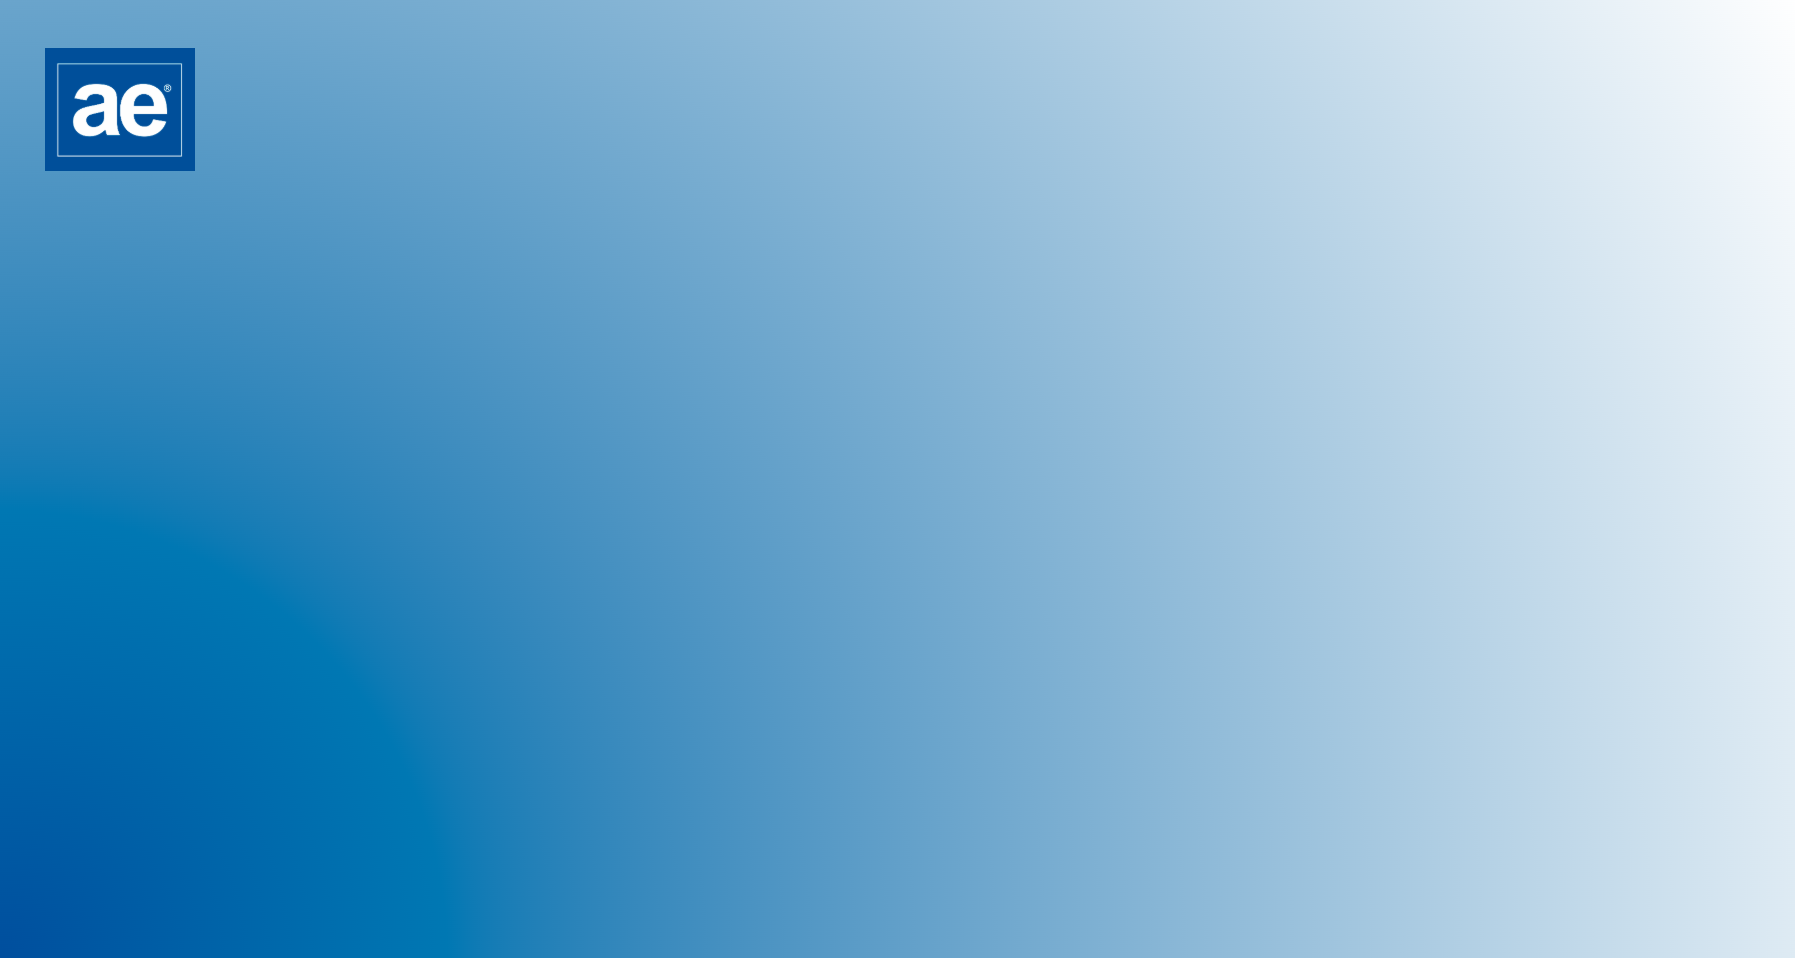
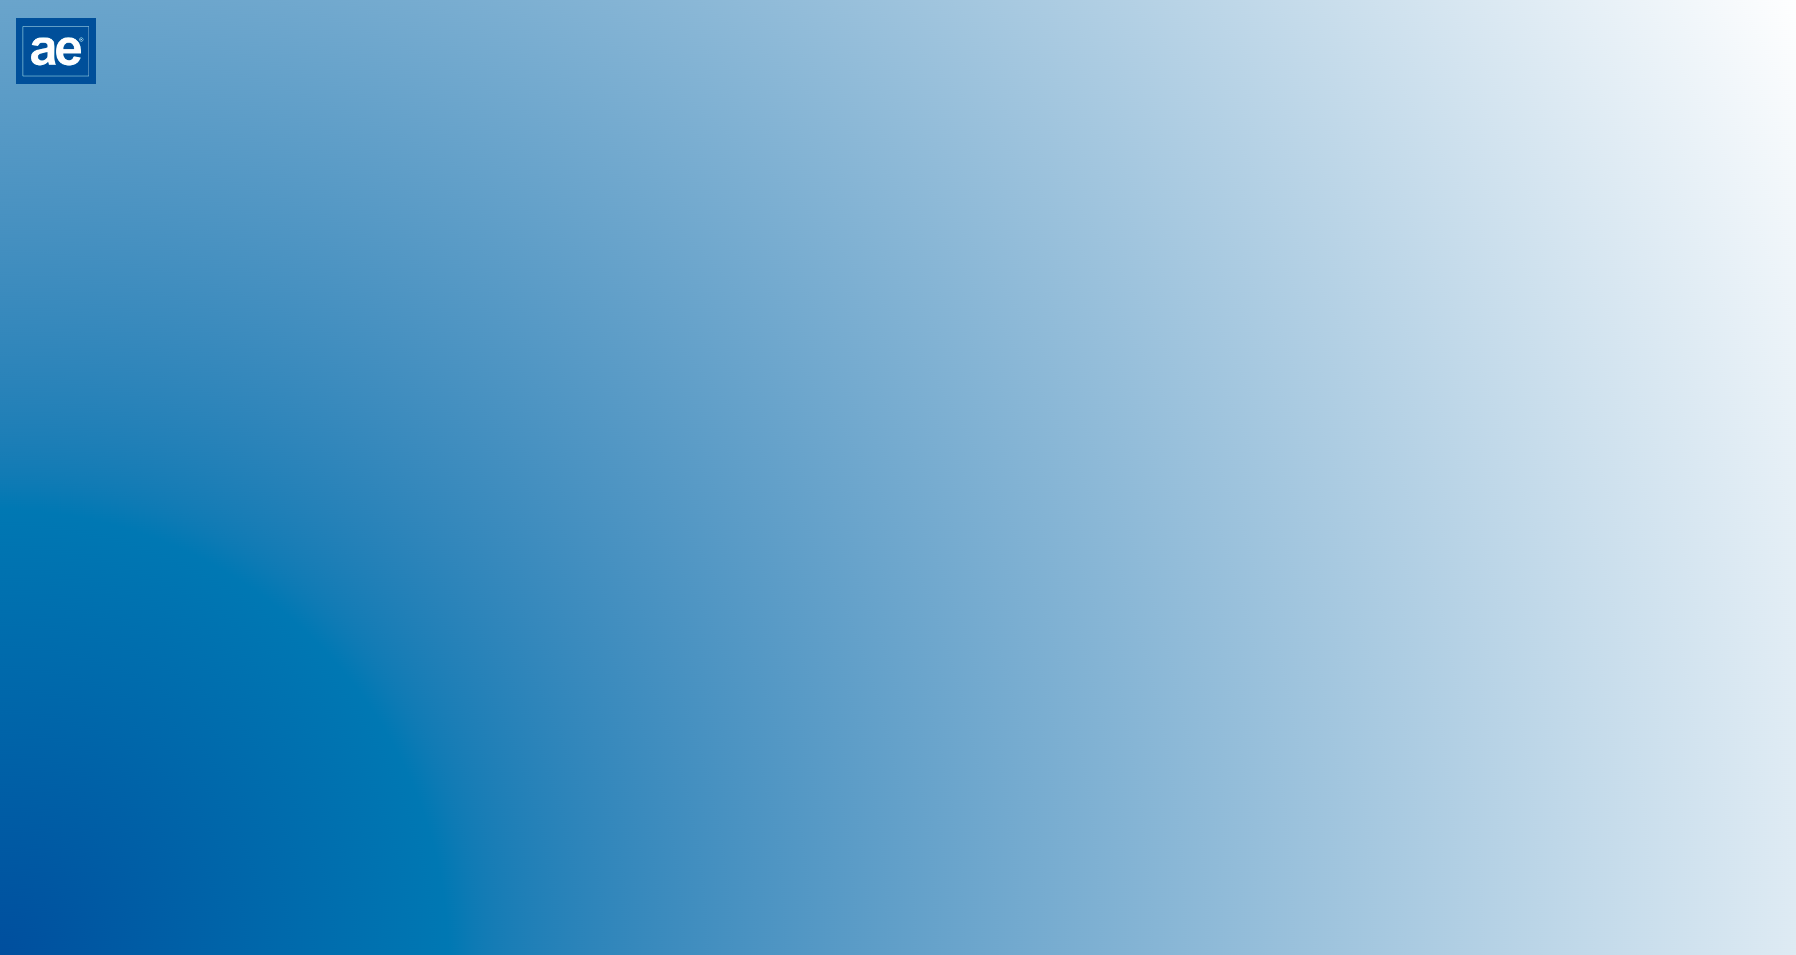
proo

Changed region(s): [[0.0, 0.0, 0.1248, 0.1822]]

diff --git a/background-generator.html b/background-generator.html
@@ -25,7 +25,7 @@
 <html>
 
 <body>
-  <img style="width: 150px; position:absolute; top:50px; left:50px;" src="logo.png"/>
+  <img style="width: 80px; position:absolute; top:20px; left:20px;" src="logo.png"/>
 </body>
 
 </html>
